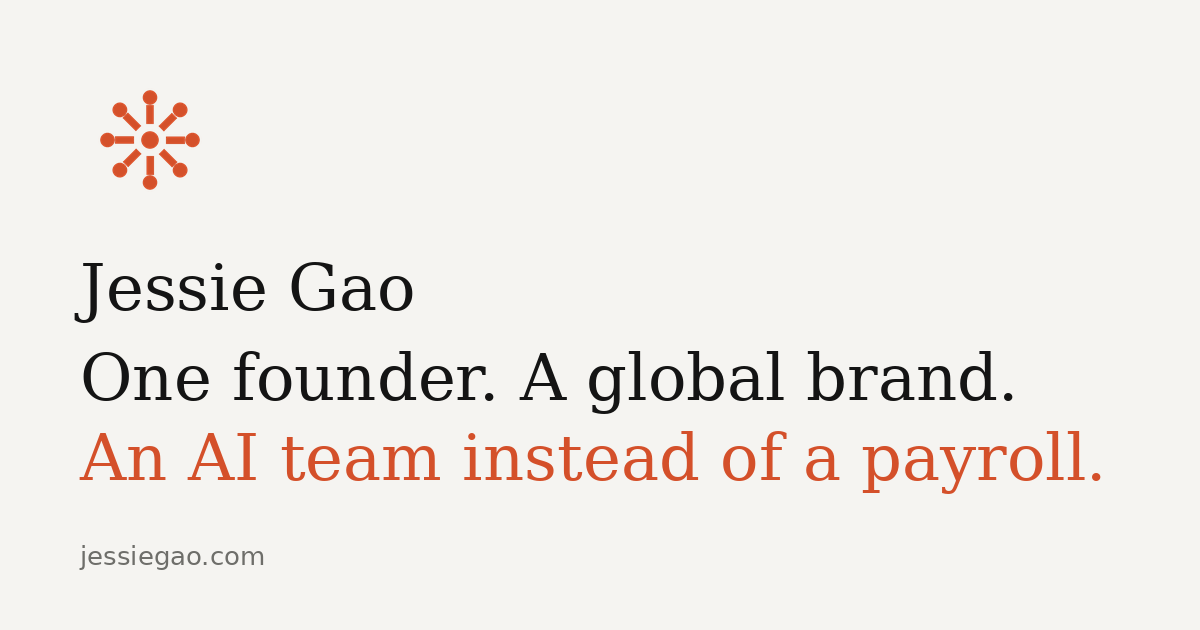
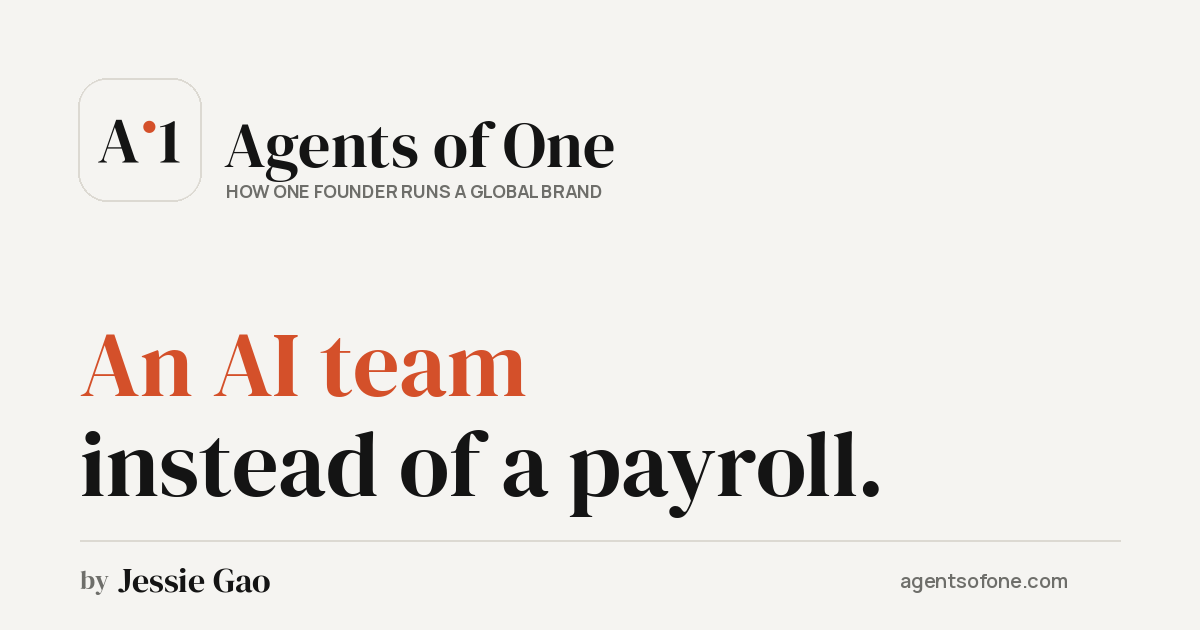
Rebrand to Agents of One: A·1 lockup in nav, 'by Jessie Gao' byline, meta/OG/JSON-LD/RSS, agentsofone.com CNAME, hello@agentsofone.com
Claude-Session: https://claude.ai/code/session_01CMruaANPATkGeux5uoMfpk

diff --git a/src/pages/rss.xml.ts b/src/pages/rss.xml.ts
@@ -2,9 +2,9 @@ import type { APIContext } from 'astro';
 import { getCollection } from 'astro:content';
 export async function GET(ctx: APIContext) {
   const notes = (await getCollection('notes', ({ data }) => !data.draft)).sort((a, b) => b.data.date.valueOf() - a.data.date.valueOf());
-  const site = ctx.site?.toString().replace(/\/$/, '') ?? 'https://jessiegao.com';
+  const site = ctx.site?.toString().replace(/\/$/, '') ?? 'https://agentsofone.com';
   const esc = (s: string) => s.replace(/&/g, '&amp;').replace(/</g, '&lt;').replace(/>/g, '&gt;');
   const items = notes.map(n => `<item><title>${esc(n.data.title)}</title><link>${site}/notes/${n.id}</link><guid>${site}/notes/${n.id}</guid><pubDate>${n.data.date.toUTCString()}</pubDate><description>${esc(n.data.description)}</description></item>`).join('');
-  const xml = `<?xml version="1.0" encoding="UTF-8"?><rss version="2.0"><channel><title>Jessie Gao — Notes</title><link>${site}/notes</link><description>Running a consumer brand with an AI team: the job, the old way, the AI way, what it cost, what broke.</description><language>en-gb</language>${items}</channel></rss>`;
+  const xml = `<?xml version="1.0" encoding="UTF-8"?><rss version="2.0"><channel><title>Agents of One — by Jessie Gao</title><link>${site}/notes</link><description>Running a consumer brand with an AI team: the job, the old way, the AI way, what it cost, what broke.</description><language>en-gb</language>${items}</channel></rss>`;
   return new Response(xml, { headers: { 'Content-Type': 'application/xml; charset=utf-8' } });
 }

diff --git a/src/styles/global.css b/src/styles/global.css
@@ -1,4 +1,4 @@
-/* Jessie Gao — brand system v1: Tomato & Graphite */
+/* Agents of One · by Jessie Gao — brand system v1: Tomato & Graphite */
 :root {
   --ground: #F5F4F1;
   --ink: #141414;

diff --git a/README.md b/README.md
@@ -1,6 +1,6 @@
-# jessiegao.com
+# agentsofone.com
 
-Personal site of Jessie Gao. Built with [Astro](https://astro.build), deployed to GitHub Pages, domain on Cloudflare.
+Agents of One — by Jessie Gao. How one founder runs a global brand with an AI team instead of a payroll. Built with [Astro](https://astro.build), deployed to GitHub Pages, domain on Cloudflare.
 
 ## Run locally
 ```bash
@@ -26,7 +26,7 @@ Commit and push to `main` — GitHub Actions rebuilds and deploys in about a min
 
 ## Where things live
 - `src/pages/` — the pages (index, work, work-with-me, building, notes)
-- `src/components/` — Nav, Footer, Wordmark, Mark (the dandelion spark)
+- `src/components/` — Nav, Footer, Brand (A·1 tile + name), Byline, Wordmark (Jessie Gao), Mark (the dandelion spark)
 - `src/styles/global.css` — the brand system: palette variables, type, buttons, cards
 - `public/` — favicon, touch icon, OG image, CNAME, robots
 
@@ -37,14 +37,14 @@ Display: DM Serif Display · Body/UI: Manrope · Mark: dandelion spark on the i 
 ## Deploy (one-time setup)
 1. Create a GitHub repo `gaolujessie/theairunbrand` (public) and push this folder to `main`.
 2. Repo → Settings → Pages → Source: **GitHub Actions**. The workflow in `.github/workflows/deploy.yml` does the rest.
-3. Repo → Settings → Pages → Custom domain: `jessiegao.com` (the `public/CNAME` file keeps it set). Tick "Enforce HTTPS" once the certificate is issued.
-4. Cloudflare DNS for jessiegao.com (proxy status: DNS only / grey cloud while the GitHub certificate is issued; you can switch to proxied afterwards):
+3. Repo → Settings → Pages → Custom domain: `agentsofone.com` (the `public/CNAME` file keeps it set). Tick "Enforce HTTPS" once the certificate is issued.
+4. Cloudflare DNS for agentsofone.com (jessiegao.com redirects here via a Cloudflare redirect rule) (proxy status: DNS only / grey cloud while the GitHub certificate is issued; you can switch to proxied afterwards):
    - `A    @    185.199.108.153`
    - `A    @    185.199.109.153`
    - `A    @    185.199.110.153`
    - `A    @    185.199.111.153`
    - `CNAME www  gaolujessie.github.io`
-5. Cloudflare → Email → Email Routing: forward `hello@jessiegao.com` → your Gmail.
+5. Cloudflare → Email → Email Routing: forward `hello@agentsofone.com` (and `hello@jessiegao.com`) → your Gmail. Done 19 Nov 2026.
 
 ## Still to fill in
 - Portrait (`public/portrait.jpg`, 4:5, ≥1600px wide) and three Work images
